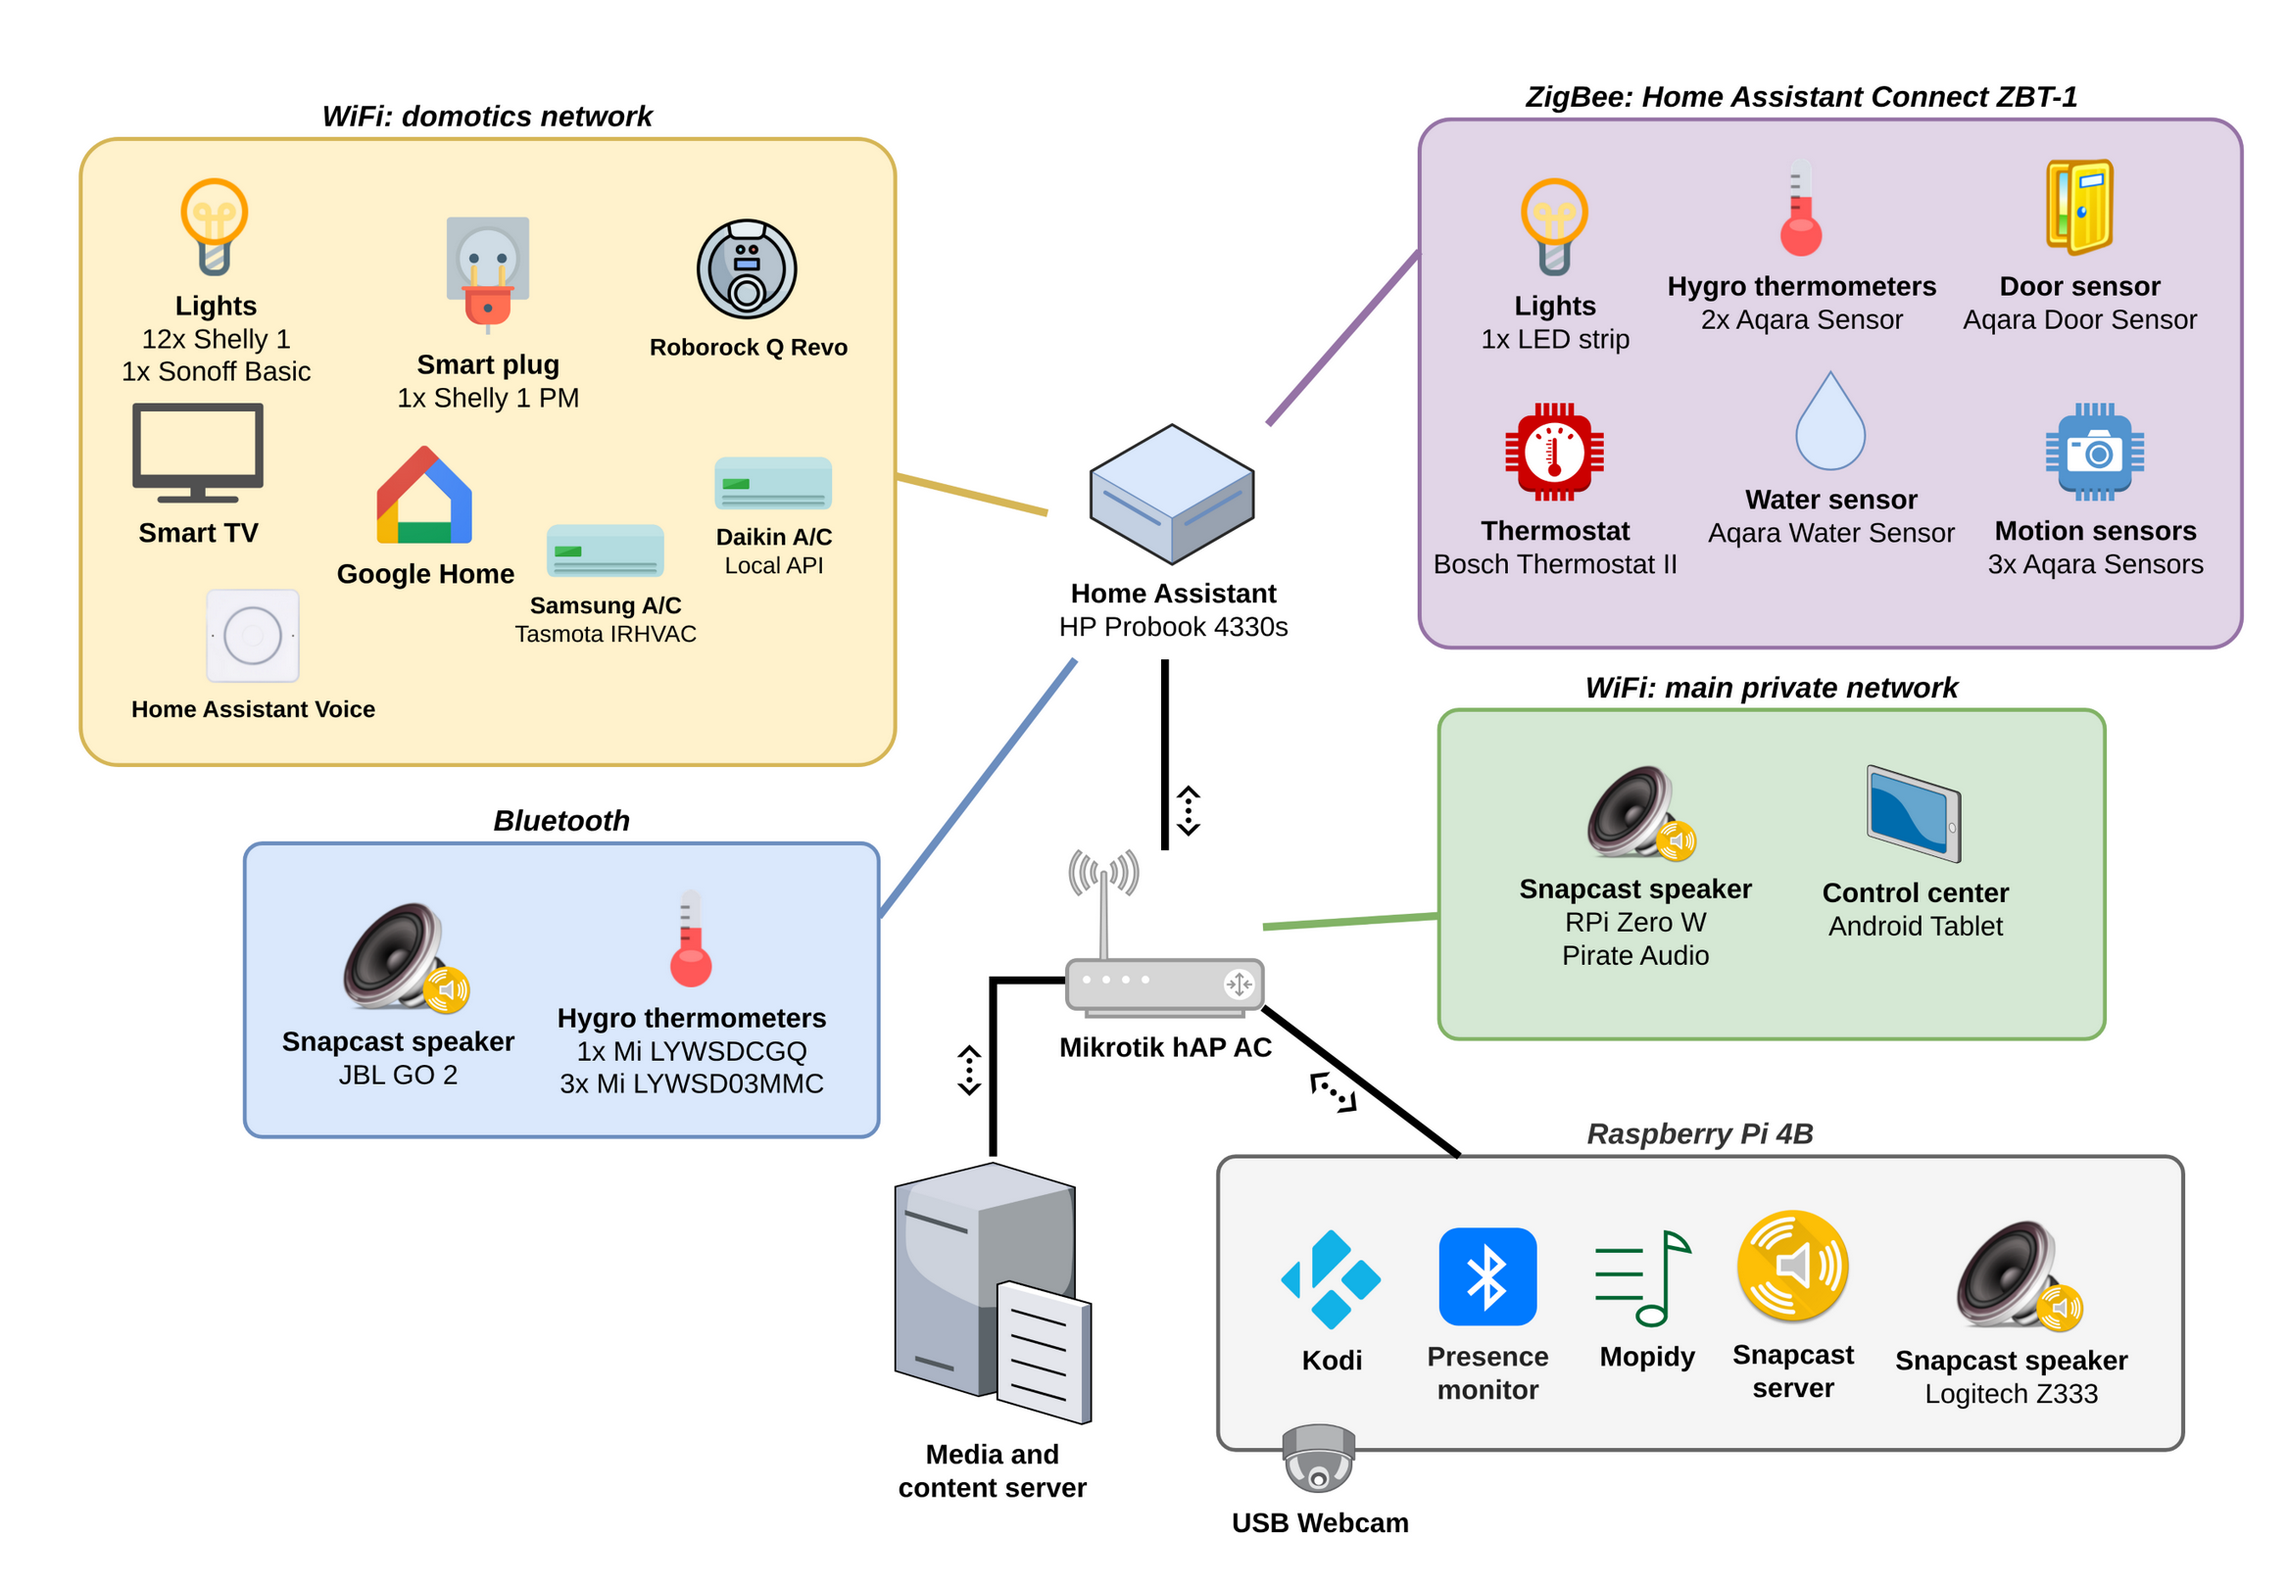
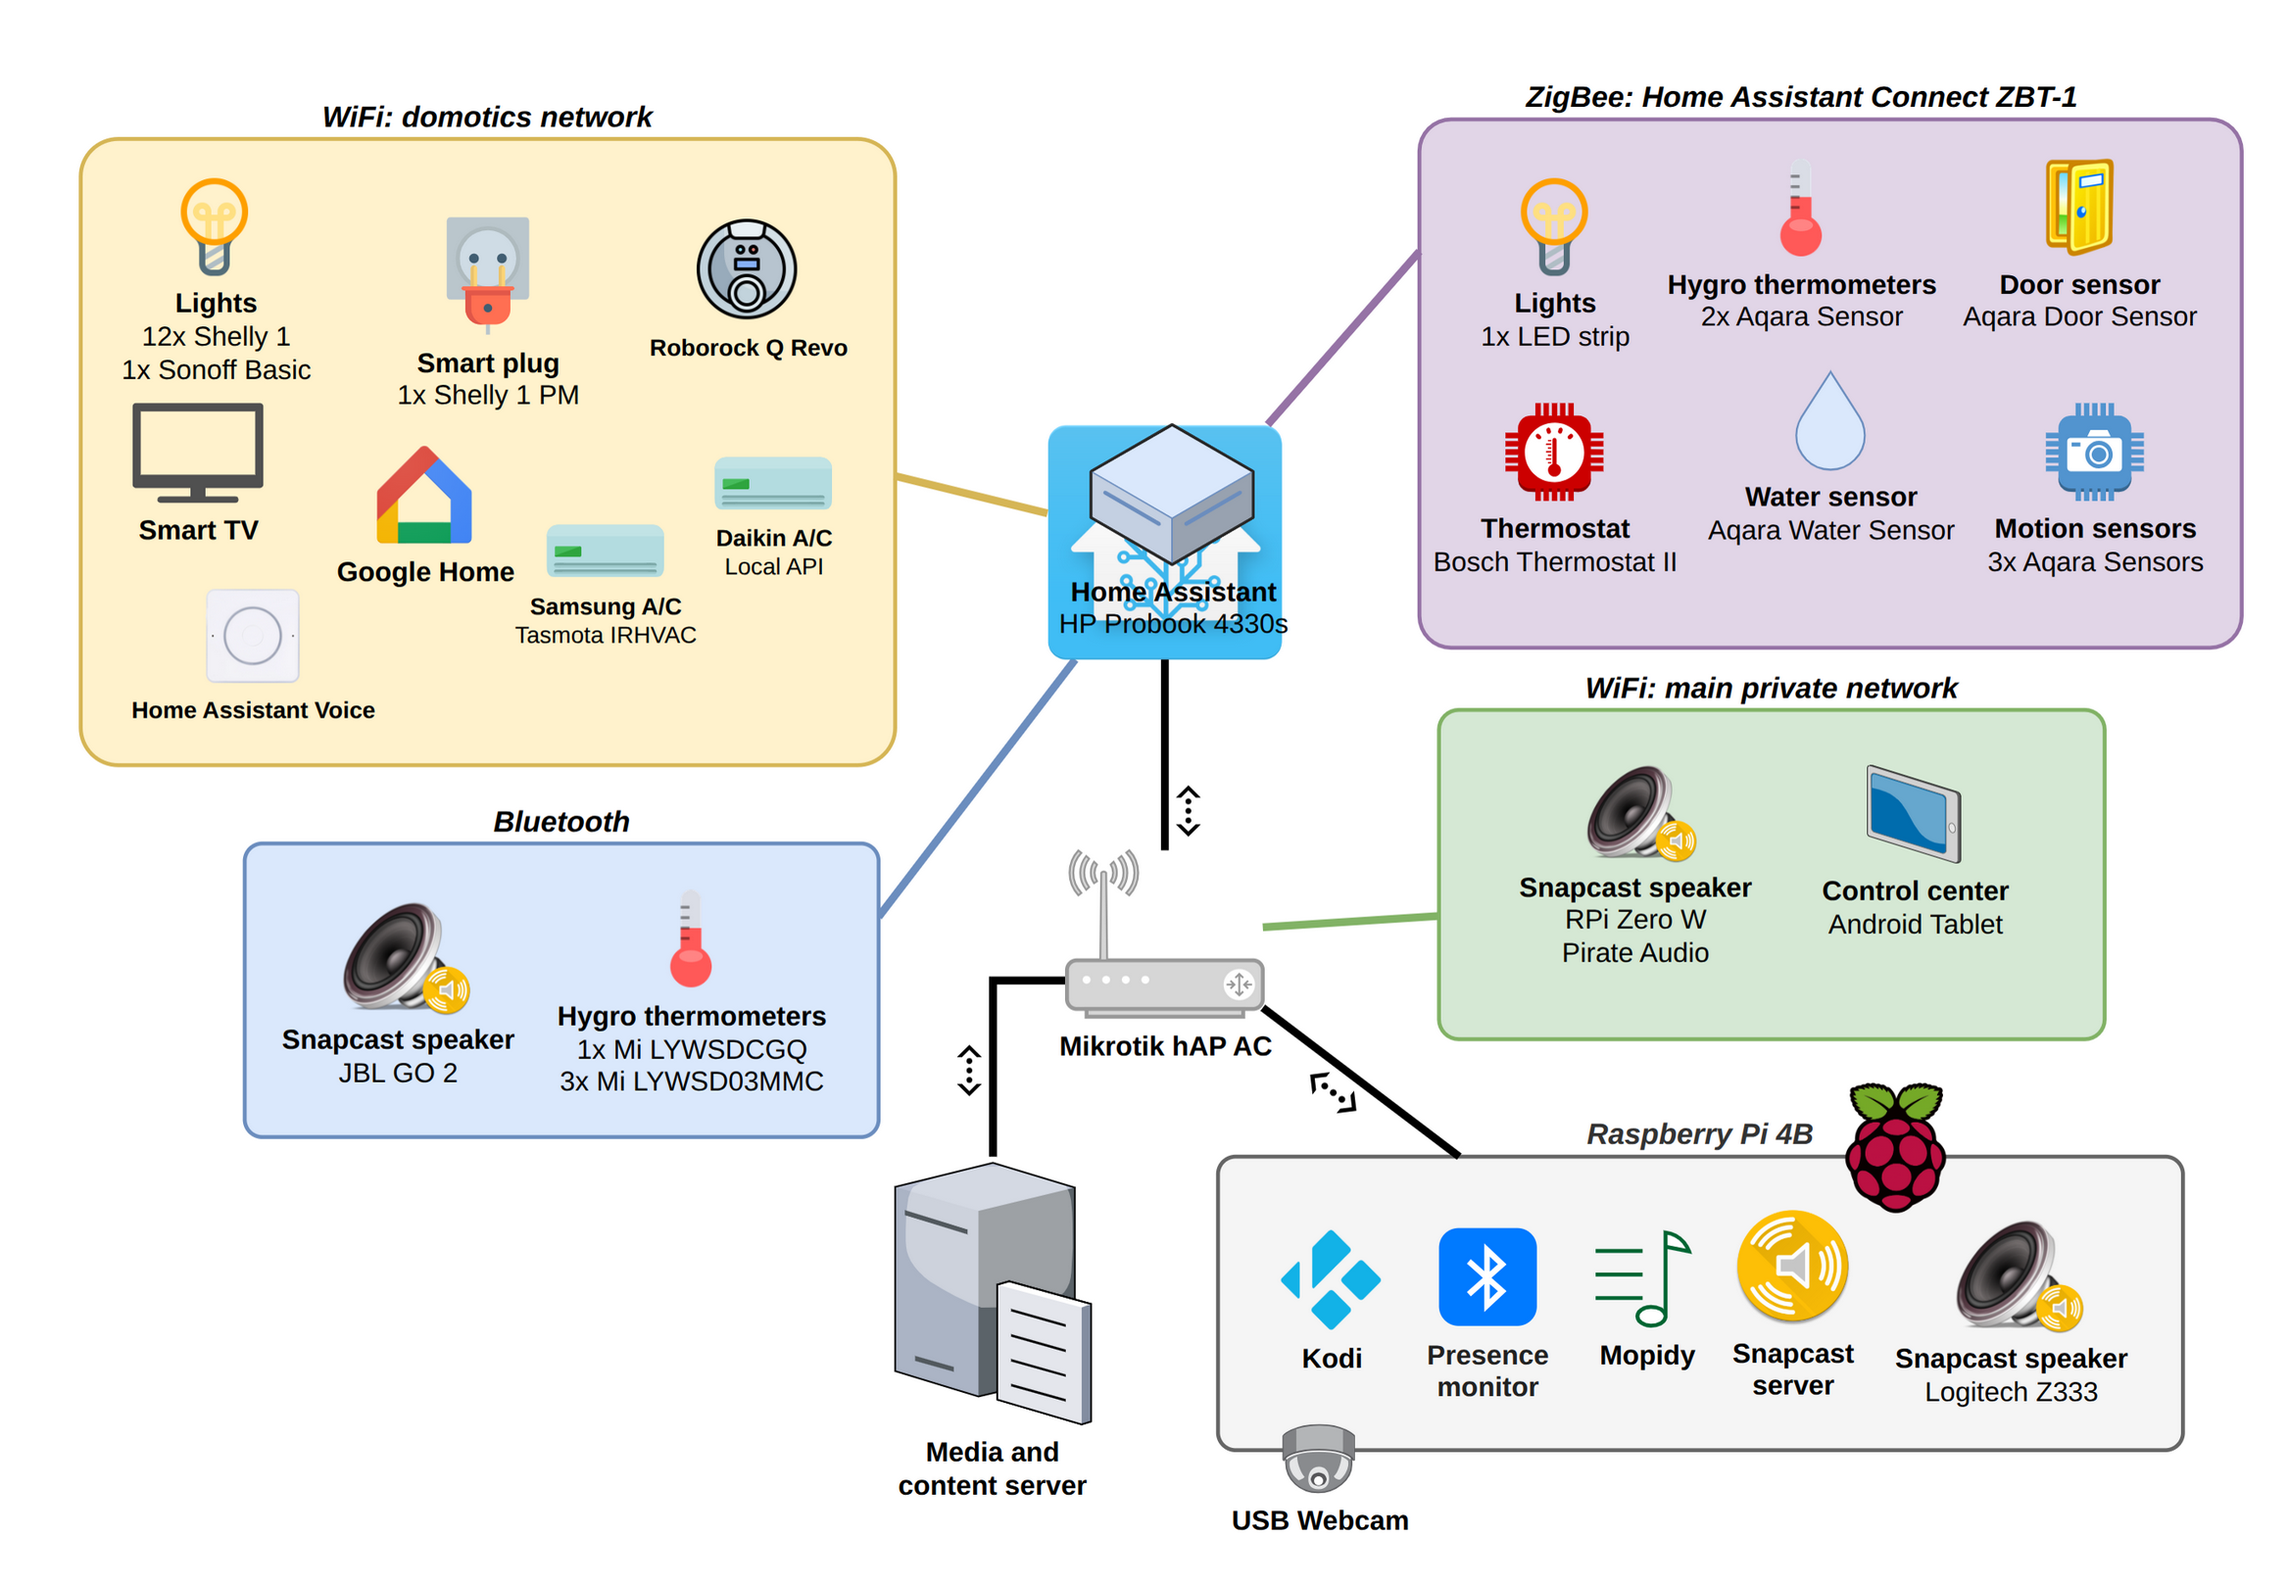
Upgrades

diff --git a/apps/domonet_manager.py b/apps/domonet_manager.py
@@ -16,6 +16,7 @@ class DomonetManager(hass.Hass):
 
     # noinspection attribute-outside-init
     def initialize(self):
+        self.logger.info("Domonet manager starting")
         self.domonet_interface = self.args["domonet_interface"]
         self.external_interface = self.args["external_interface"]
         self.check_global_command = self.args["check_global_command"]
@@ -26,9 +27,11 @@ class DomonetManager(hass.Hass):
         self.enable_device_command = self.args["enable_device_command"]
         self.disable_device_command = self.args["disable_device_command"]
 
-        self.set_namespace("domonet")
+        # apparently the dependency to the plugin is not enough to be restarted
+        self.set_namespace("hass")
 
         # FIXME workaround for race condition: the hass namespace might not exist yet
+        # FIXME technically this is not needed anymore because set_namespace will create it
         while not self.namespace_exists("hass"):
             self.logger.debug("Waiting for hass namespace")
             sleep(1)

diff --git a/custom_components/s6_ready/__init__.py b/custom_components/s6_ready/__init__.py
@@ -19,7 +19,7 @@ async def async_setup(hass: HomeAssistant, config: dict) -> bool:
             os.write(FD, b"\n")
             os.close(FD)
         except OSError as err:
-            _LOGGER.warning("s6 readiness notification fallita: %s", err)
+            _LOGGER.warning("s6 readiness notification failed: %s", err)
 
     hass.bus.async_listen_once(EVENT_HOMEASSISTANT_STARTED, _notify)
     return True
